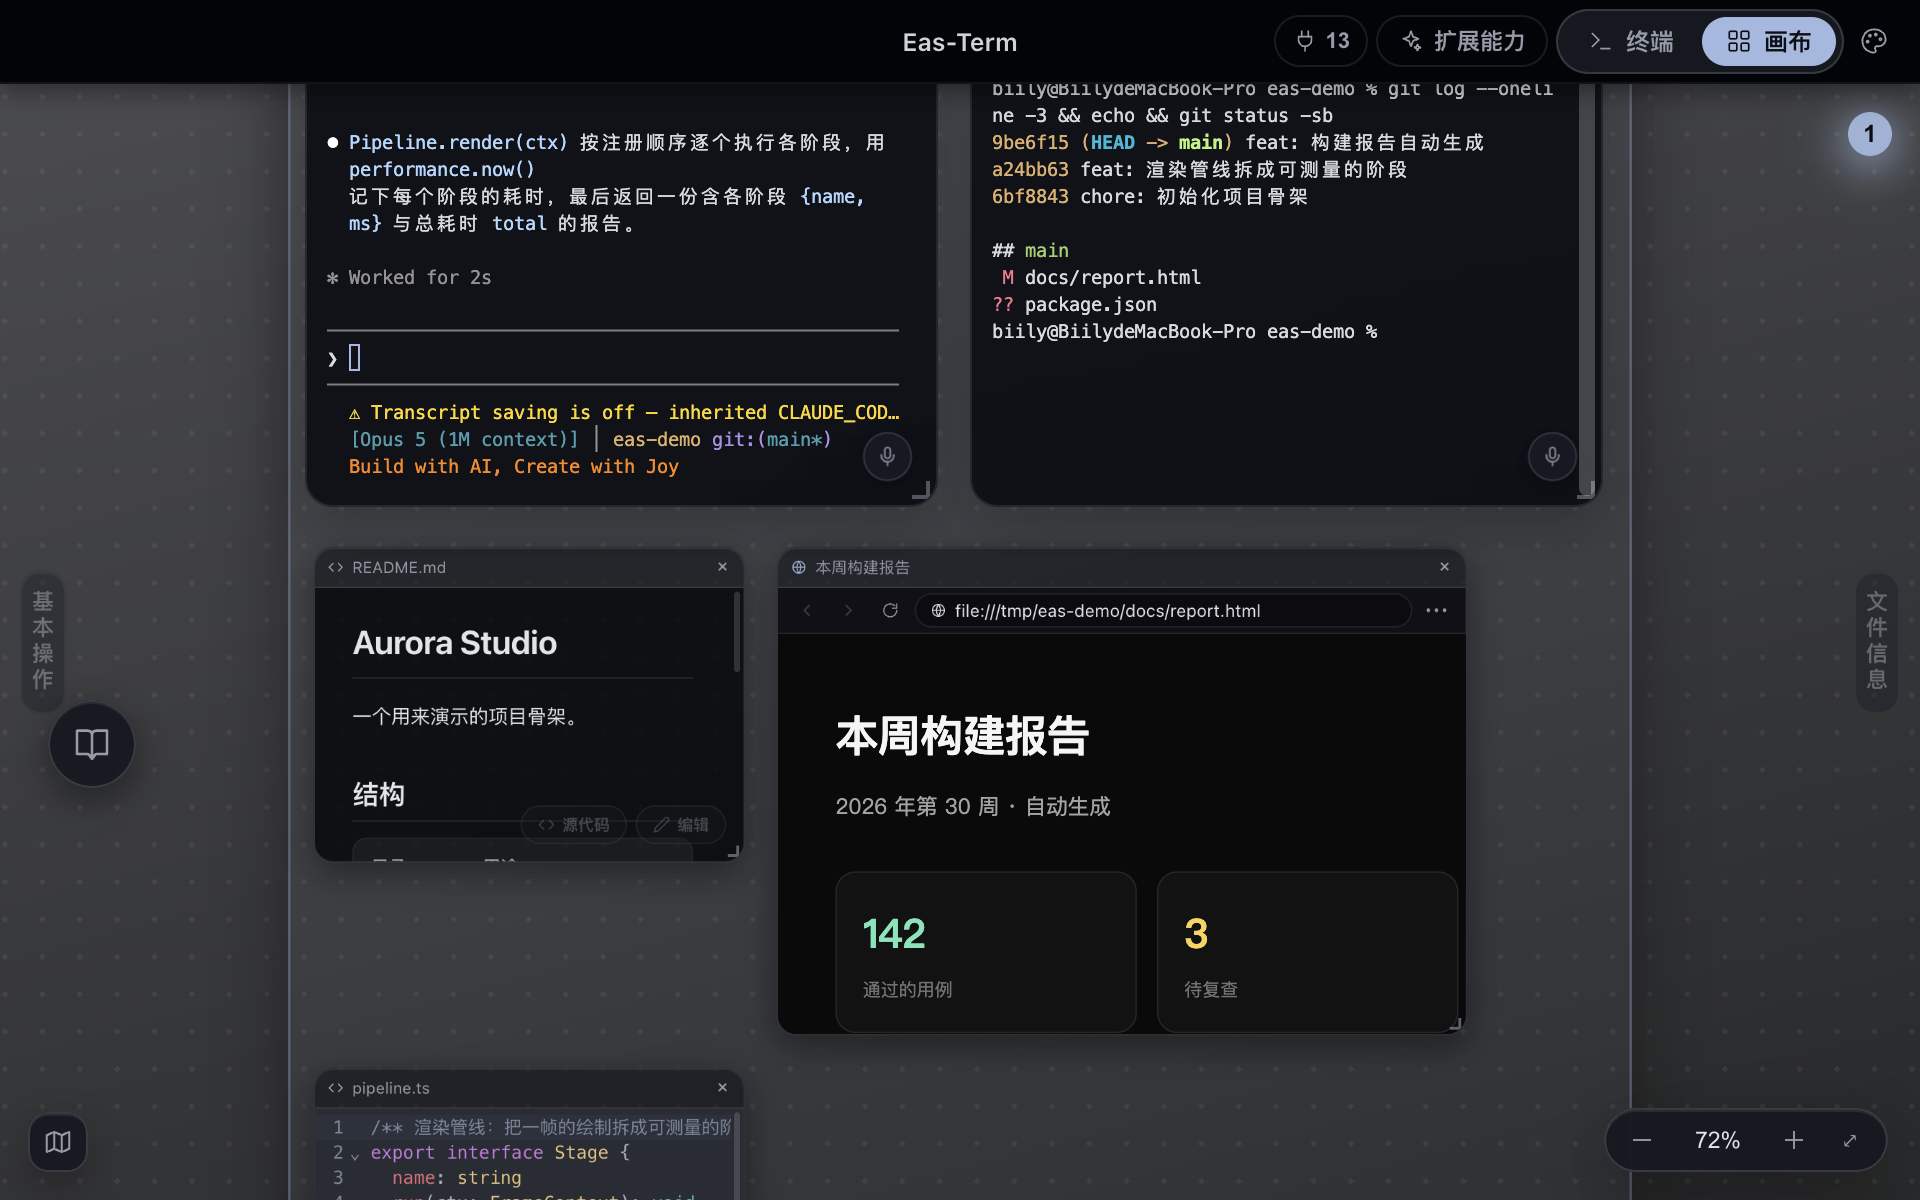
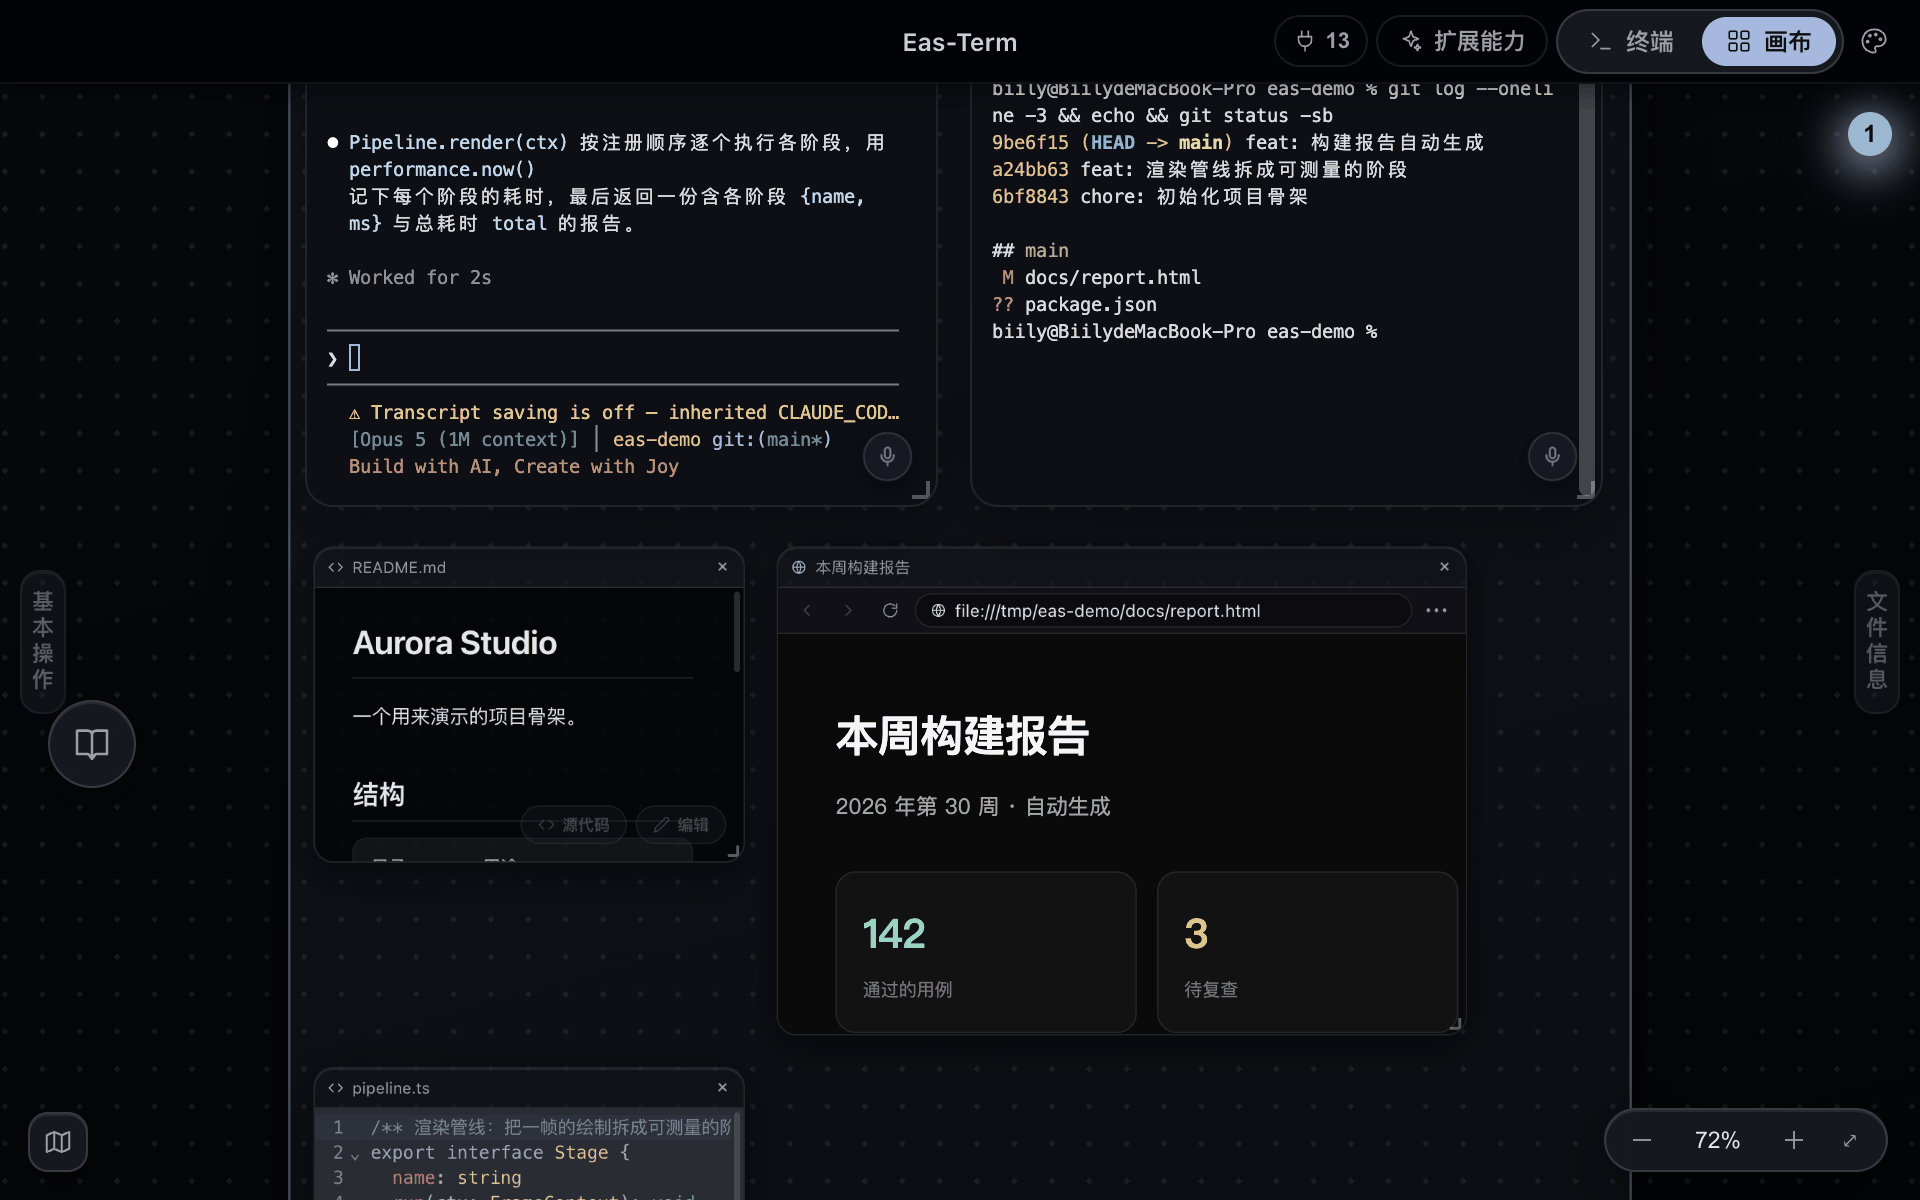
feat(site): 6 张截图全部就位，按各自要讲的事分别构图
不是同一张全景裁六份——每张按它承担的语义单独摆位和缩放：
- Hero 全景（fit 后回放大到 ~70%，一屏能看懂「左终端右画布」）
- 场景 1 聚焦到网页预览节点（95%），讲「AI 写完画布上直接看」
- 场景 2 切到终端模式，讲项目文件树 + 标签组
- 场景 3 focus 到终端节点后放到 111%，让 Agent 控制条（Claude/Codex、模型、思考档位）看得清
- 场景 4 Markdown 排版预览与网页预览并排
- AI 接入 真的让 claude 走 MCP 开了个预览节点再截，标题栏 MCP 计数是真的

素材安全：全程用 EAS_USER_DATA 指向临时目录的独立实例 + 造的演示项目（Aurora Studio），
没碰用户真实画布。中途发现 demo 里跑 npm build 会向上找到外层 node_modules，
把真实项目路径打进终端——那张作废重截了。

体积：8-bit 调色板量化，2.8MB → 833KB（省 71%）。截图配色少，量化后文字仍然锐利。
先试过 sips -Z 缩放，反而从 455KB 涨到 690KB（重编码压缩率更差），已回滚。

figcaption 按图里实际有什么重写，不照抄原设想——图文不符比没图更糟。

diff --git a/site/index.html b/site/index.html
@@ -89,10 +89,8 @@
               </ul>
             </div>
             <figure class="shot">
-              <div class="shot-box" style="aspect-ratio: 16 / 10">
-                <span class="shot-text">界面截图 · 待补</span>
-              </div>
-              <figcaption class="shot-cap">终端节点旁边挂着网页预览节点</figcaption>
+              <img src="assets/shot-preview.png" alt="Claude Code 刚把周报写完，产出的页面就在画布上开着" />
+              <figcaption class="shot-cap">终端里跑 AI，产出的网页预览就在旁边</figcaption>
             </figure>
           </div>
 
@@ -110,10 +108,8 @@
               </ul>
             </div>
             <figure class="shot">
-              <div class="shot-box" style="aspect-ratio: 16 / 10">
-                <span class="shot-text">界面截图 · 待补</span>
-              </div>
-              <figcaption class="shot-cap">多终端分屏 + 项目标签组</figcaption>
+              <img src="assets/shot-split.png" alt="终端模式：左侧项目文件树，右侧终端与项目标签组" />
+              <figcaption class="shot-cap">终端模式：项目文件树 + 标签组</figcaption>
             </figure>
           </div>
 
@@ -130,10 +126,8 @@
               </ul>
             </div>
             <figure class="shot">
-              <div class="shot-box" style="aspect-ratio: 16 / 10">
-                <span class="shot-text">界面截图 · 待补</span>
-              </div>
-              <figcaption class="shot-cap">AI Agent 控制台</figcaption>
+              <img src="assets/shot-agent.png" alt="终端节点顶部的 Agent 控制台：切 Claude / Codex，选模型与思考档位" />
+              <figcaption class="shot-cap">Agent 控制台：agent、模型、思考档位</figcaption>
             </figure>
           </div>
 
@@ -151,10 +145,8 @@
               </ul>
             </div>
             <figure class="shot">
-              <div class="shot-box" style="aspect-ratio: 16 / 10">
-                <span class="shot-text">界面截图 · 待补</span>
-              </div>
-              <figcaption class="shot-cap">Markdown 排版预览与 Git 模块</figcaption>
+              <img src="assets/shot-markdown.png" alt="Markdown 排版预览与网页预览并排，右下角可切源码或就地编辑" />
+              <figcaption class="shot-cap">Markdown 排版预览 · 右下角切源码/编辑</figcaption>
             </figure>
           </div>
         </div>
@@ -303,9 +295,7 @@
             </div>
 
             <figure class="shot">
-              <div class="shot-box" style="aspect-ratio: 16 / 9">
-                <span class="shot-text">界面截图 · 待补</span>
-              </div>
+              <img src="assets/shot-mcp.png" alt="AI 通过 MCP 在画布上开出的预览节点，标题栏的 MCP 指示灯记着调用次数" />
               <figcaption class="shot-cap">AI 通过 MCP 在画布上开出预览节点</figcaption>
             </figure>
           </div>

diff --git a/site/README.md b/site/README.md
@@ -60,30 +60,24 @@ cp build/icon.png site/assets/icon.png
 grep -rn "待填" site/
 ```
 
-## 待补的截图
+## 截图
 
-目前页面里所有截图位置都是**占位块**（深色玻璃质感 + 「界面截图 · 待补」文字），没有用任何假图。
-每个占位块用 `aspect-ratio` 固定了比例，换成真图时只要把 `<div class="shot-box">…</div>` 整块替换成
-`<img src="assets/shot-xxx.png" alt="…" />` 即可，外层 `<figure class="shot">` 和说明文字保留。
+6 张都已就位（`assets/shot-*.png`），用开发版 + 独立 userData 起了一块干净的演示画布截的，
+不含任何真实项目信息。全部 8-bit 调色板量化过（2.8MB → 833KB，截图配色少，肉眼无损）。
 
-需要 5 张，都建议 **2× 分辨率截图**（Retina 下截，输出尺寸是标注值的 2 倍），PNG 格式，**深色主题（默认蓝）**，
-窗口尺寸尽量统一，窗口阴影可留可去（页面自己有阴影，建议截**不带系统阴影**的窗口内容）：
+| 文件 | 用在哪 | 画面内容 |
+|------|--------|----------|
+| `shot-hero.png` | Hero | 全景：左终端跑 AI、右画布摆着网页预览和代码，左上角运行监视窗亮着 |
+| `shot-preview.png` | 场景 1 | Claude Code 写完周报，产出的页面就在画布上 |
+| `shot-split.png` | 场景 2 | 终端模式：项目文件树 + 标签组 |
+| `shot-agent.png` | 场景 3 | Agent 控制台特写：Claude/Codex、模型、思考档位 |
+| `shot-markdown.png` | 场景 4 | Markdown 排版预览与网页预览并排 |
+| `shot-mcp.png` | AI 接入 | AI 通过 MCP 开出的预览节点，标题栏 MCP 计数 |
 
-| # | 位置 | 建议尺寸 | 比例 | 内容要求 |
-| --- | --- | --- | --- | --- |
-| 1 | `index.html` Hero | 1920×1200 | 16:10 | **主视觉**。全窗口截图：左侧一个终端在跑 AI，右侧画布上摆着网页预览 + 代码 + 图片几个模块，能一眼看懂「左终端右画布」。画面要干净，别有报错。 |
-| 2 | 核心场景 1「AI 写完，画布上直接看」 | 1600×1000 | 16:10 | 终端节点旁边挂着一个网页预览节点，预览里是刚生成的页面。最好能看出两者的关联。 |
-| 3 | 核心场景 2「多终端分屏」 | 1600×1000 | 16:10 | 横竖分屏的多终端布局 + 顶部项目标签组，左上角运行监视窗可见。 |
-| 4 | 核心场景 3「AI Agent 控制台」 | 1600×1000 | 16:10 | Claude Code / Codex 的启动入口，能看到模型和思考档位的选择状态。 |
-| 5 | 核心场景 4「Markdown 与 Git」 | 1600×1000 | 16:10 | Markdown 排版预览模块 + Git 提交历史/diff 模块并排。 |
-| 6 | AI 接入区 | 1600×900 | 16:9 | AI 通过 MCP 在画布上开出预览节点的瞬间，最好能同时看到终端里的工具调用和画布上新出现的节点。 |
-
-截图注意事项：
-
-- 项目名、文件路径里不要出现私密信息（客户名、内网地址、密钥路径）
-- 终端里不要留 API key、token、真实邮箱
-- 统一用默认蓝主题，不要混黑粉主题，否则和站点配色不一致
-- 图片放进 `site/assets/`，命名建议 `shot-hero.png`、`shot-canvas.png`、`shot-split.png`、`shot-agent.png`、`shot-md-git.png`、`shot-mcp.png`
+要重截的话：`EAS_USER_DATA=<临时目录> EAS_CDP=9555 npm run dev` 起一个干净实例，
+再用 CDP 摆画布截图。两个坑：改视口后必须重新点「适应窗口」，否则画布视野错位；
+CDP 只截渲染层而窗口是 vibrancy 透明底，要设 `Emulation.setDefaultBackgroundColorOverride`，
+不然空白处会截成白灰。
 
 ## 设计约束（改动时请遵守）
 
